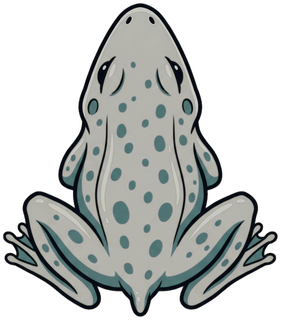
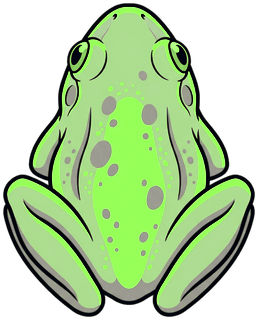
fix: Dragon Tide v0.47.1 — コロッサスの前後を修正・盾兵を小さく・蛙竜の色と脚
実機判定（2026-08-24）の3点。

コロッサス:
- 生成された絵の前後が逆だった（冠に見えた台形が実は台座で、顔が下を向いていた）。
  画像そのものを180度回して、ピボットを回転後の実測値に更新した。

鏡の盾兵:
- コード側が描く「弾く扇」と絵が重なって盾が読めなかったので、エフェクトはそのままに
  絵を一回り小さくした（drawScale 3.45 → 2.4）。

蛙竜:
- 尻尾と同じ明るさの緑にした。生成し直しても色が寄らなかったため、
  tools/sprite_recolor.py を追加して**主線を残したまま中間色だけパレットの色相へ寄せる**
  方式にした（尻尾の rgb(140,224,90) と同じ色相97.6度へ）。
- 翼を小さくした（wingDrawW 25 → 15）。蛙なので翼は控えめ。
- **跳ぶときに脚が動く**ようにした。後脚を伸ばした胴体をもう1枚生成し、
  滞空中（boidHopAir > 0.15）だけそちらへ差し替える。スプライトのキャッシュキーに
  variant を足しただけなので、跳躍ポーズを持たない他の12種は従来どおり1列しか焼かれない。

検証: 2ポーズが別物として焼かれている（不透明画素 435 vs 302）、bodyAir のロード成功、
実プレイ300フレームで滞空38%（設計値42%）＝跳ぶたびに差し替わっている、例外・コンソールエラーなし。

diff --git a/prototypes/dragon-tide/index.html b/prototypes/dragon-tide/index.html
@@ -579,7 +579,7 @@
 // -----------------------------------------------------------------
 // バージョン定数（ここだけ更新すれば画面に反映される）
 // -----------------------------------------------------------------
-const GAME_VERSION = "v0.47.0";
+const GAME_VERSION = "v0.47.1";
 document.getElementById("hud-version").textContent = GAME_VERSION;
 
 // -----------------------------------------------------------------
@@ -12084,6 +12084,10 @@ function drawBoids() {
   //   getSpeciesSprites(boidSpecies[i]) を引く形にすればよい（キャッシュは複数種対応済み）。
   const element       = sp().element ?? "fire";
   const sprites       = getSpeciesSprites(flockSpecies);
+  // v0.47.1: 跳躍ポーズの列（持っている竜種＝蛙竜だけ）。滞空中の個体はこちらを使う。
+  const partsKeyNow   = dragonPartsKey(element);
+  const hasAirPose    = !!(partsKeyNow && DRAGON_PART_SPRITES[partsKeyNow].bodyAir);
+  const spritesAir    = hasAirPose ? getSpeciesSprites(flockSpecies, "air") : null;
   const palette       = DRAGON_ELEMENT_COLORS[element] ?? DRAGON_ELEMENT_COLORS.fire;
 
   // スプライトがまだ生成されていない場合はフォールバック描画しない（ちらつき防止）
@@ -12137,7 +12141,8 @@ function drawBoids() {
     // sin を 0〜1 に正規化してフレームインデックスへ
     const tNorm     = (Math.sin(phase) * 0.5 + 0.5);
     const frameIdx  = Math.floor(tNorm * DRAGON_FLAP_FRAMES) % DRAGON_FLAP_FRAMES;
-    const sprite    = sprites[frameIdx];
+    // 滞空している蛙竜は「後脚を伸ばした」ポーズへ差し替える＝跳ぶたびに脚が動いて見える
+    const sprite    = (spritesAir && boidHopAir[i] > 0.15) ? spritesAir[frameIdx] : sprites[frameIdx];
 
     // ---- 尻尾（動的描画）----
     // 進行方向後方に TAIL_SEGS セグメントをカーブさせる。
@@ -12850,7 +12855,9 @@ const ENEMY_SPRITE_META = {
   balloon:        { px: 0.499, py: 0.459, forward: "none", drawScale: 2.97, hover: true },
   behemoth_arm:   { px: 0.524, py: 0.482, forward: "up", drawScale: 1.41, hover: true },
   behemoth_core:  { px: 0.498, py: 0.525, forward: "up", drawScale: 3.42 },
-  colossus:       { px: 0.497, py: 0.493, forward: "up", drawScale: 2.8, hover: true },
+  // v0.47.1: 生成された絵の前後が逆だった（冠に見えた台形が実は台座で、顔が下を向いていた）ので
+  // 画像そのものを180度回してある。ここは回転後の実測値。
+  colossus:       { px: 0.500, py: 0.504, forward: "up", drawScale: 2.8, hover: true },
   flamewagon:     { px: 0.497, py: 0.593, forward: "up", drawScale: 2.04 },
   healer:         { px: 0.498, py: 0.499, forward: "none", drawScale: 3.58 },
   ironclad:       { px: 0.497, py: 0.540, forward: "up", drawScale: 1.34 },
@@ -12859,7 +12866,9 @@ const ENEMY_SPRITE_META = {
   mammoth:        { px: 0.498, py: 0.579, forward: "up", drawScale: 2.08 },
   miasma:         { px: 0.498, py: 0.548, forward: "none", drawScale: 3.15 },
   raider:         { px: 0.606, py: 0.487, forward: "up", drawScale: 1.53 },
-  shieldman:      { px: 0.488, py: 0.501, forward: "up", drawScale: 3.45 },
+  // v0.47.1: コード側が描く「弾く扇」（drawMovers）と絵が重なって盾が読めなかったので、
+  // エフェクトはそのままに**絵を一回り小さく**した（3.45 → 2.4）。
+  shieldman:      { px: 0.488, py: 0.501, forward: "up", drawScale: 2.4 },
   shockman:       { px: 0.498, py: 0.516, forward: "up", drawScale: 3.26 },
   splitter:       { px: 0.494, py: 0.520, forward: "none", drawScale: 3.49, hover: true },
   summoner:       { px: 0.497, py: 0.518, forward: "none", drawScale: 3.34, hover: true },
@@ -13030,12 +13039,16 @@ const DRAGON_PART_SPRITES = {
   },
   frog: {
     body: "assets/dragon_frog_body.png",
+    // v0.47.1: 跳んでいる間だけ差し替える「後脚を伸ばした」胴体。
+    // 実機判定「ジャンプする時に脚が動いてほしい」への対応。2ポーズの差し替えで脚が動いて見える。
+    bodyAir: "assets/dragon_frog_body_air.png",
+    bodyAirPivot: { cx: 159.3, cy: 149.4, w: 320, h: 315 },
     wing: "assets/dragon_frog_wing.png",
     bodyPivot:  { cx: 139.9, cy: 185.3, w: 281, h: 320 },
     shoulder:   { left: { x: 71.0, y: 182 }, right: { x: 208.0, y: 182 } },
     wingAnchor: { x: 317, y: 66.1 },
     bodyDrawH: 27,
-    wingDrawW: 25,
+    wingDrawW: 15,   // v0.47.1: 蛙なので翼は小さく（実機判定「翼はもっと小さく」）
   },
   // UFO だけは**円盤1枚**（sprites.md のカテゴリD）。翼を持たないので wing を書かない。
   // drawPartSeparatedDragon は wing が無ければ胴体だけを描く。
@@ -13094,7 +13107,7 @@ function preloadDragonImages() {
     ...Object.keys(DRAGON_PART_SPRITES).flatMap((el) => {
       dragonPartImages[el] = dragonPartImages[el] || {};
       // v0.46: 翼を持たない竜種（UFO）は wing を宣言していないので body だけ読む
-      return ["body", "wing"]
+      return ["body", "wing", "bodyAir"]
         .filter((part) => DRAGON_PART_SPRITES[el][part])
         .map((part) =>
           loadOne(DRAGON_PART_SPRITES[el][part], (img) => { dragonPartImages[el][part] = img; }));
@@ -13175,13 +13188,15 @@ function easeAngle(cur, target, k) {
  * @param {number} flapFactor  翼スパン軸の縮小係数（常に正、0.13〜1.0）
  * @param {CanvasRenderingContext2D} c
  */
-function drawPartSeparatedDragon(partsKey, flapFactor, c) {
+function drawPartSeparatedDragon(partsKey, flapFactor, c, variant) {
   const spec    = DRAGON_PART_SPRITES[partsKey];
   const imgs    = dragonPartImages[partsKey];
-  const bodyImg = imgs.body;
+  // v0.47.1: 跳躍ポーズ（後脚を伸ばした胴体）。持っていない竜種は通常の胴体のまま。
+  const useAir  = variant === "air" && !!(spec.bodyAir && imgs.bodyAir);
+  const bodyImg = useAir ? imgs.bodyAir : imgs.body;
   const wingImg = imgs.wing;
 
-  const bodyPivot = spec.bodyPivot;
+  const bodyPivot = useAir ? spec.bodyAirPivot : spec.bodyPivot;
   const bodyDrawH = spec.bodyDrawH;
   const bodyDrawW = bodyDrawH * (bodyImg.naturalWidth / bodyImg.naturalHeight);
   // 胴体の論理スケール（元画像px → 描画px）。肩オフセットの換算にも使う。
@@ -13244,7 +13259,7 @@ function drawPartSeparatedDragon(partsKey, flapFactor, c) {
  * @param {number} spritePx  canvas物理解像度（= 論理サイズ × DPR）
  * @returns {HTMLCanvasElement}
  */
-function renderDragonFrame(element, wingAngle, spritePx) {
+function renderDragonFrame(element, wingAngle, spritePx, variant) {
 
   // v0.35.2: 描画方式は**属性ごとに**決める（従来はグローバルな dragonImagesLoaded で
   // 全属性まとめて判定していたため、1枚欠けると全竜種がベクターに落ちていた）。
@@ -13281,7 +13296,7 @@ function renderDragonFrame(element, wingAngle, spritePx) {
 
   if (usesParts) {
     // 分離方式: 胴体固定 + 翼のみ羽ばたき（胴体まで伸縮する「蝶々開閉」を防ぐため）
-    drawPartSeparatedDragon(partsKey, flapFactor, c);
+    drawPartSeparatedDragon(partsKey, flapFactor, c, variant);
   } else {
     // 一体画像方式（旧）: 全身画像に flapFactor の scale をまとめて適用する。
     // **胴体まで横に伸縮する**ので、分離方式へ移行できた竜種は上の分岐に載せる。
@@ -13530,7 +13545,7 @@ function drawWing(c, bx, _by, wingTipY, palette) {
 }
 
 /** 1属性ぶんの羽ばたき全コマをプリレンダして返す。 */
-function buildElementSprites(element) {
+function buildElementSprites(element, variant) {
   const spriteDpr = Math.min(window.devicePixelRatio || 1, 2);
   const spritePx  = Math.ceil(DRAGON_SPRITE_LOGICAL * spriteDpr);
   const frames    = [];
@@ -13539,7 +13554,7 @@ function buildElementSprites(element) {
     // wingAngle: 0=水平（最大展開）→ π*0.65 = 約37度折りたたみ
     const phase     = (f / DRAGON_FLAP_FRAMES) * Math.PI * 2;
     const wingAngle = (Math.sin(phase) * 0.5 + 0.5) * (Math.PI * 0.65);
-    frames.push(renderDragonFrame(element, wingAngle, spritePx));
+    frames.push(renderDragonFrame(element, wingAngle, spritePx, variant));
   }
   return frames;
 }
@@ -13554,17 +13569,23 @@ function buildElementSprites(element) {
 const spriteCache = new Map();      // speciesId -> フレーム配列
 const SPRITE_CACHE_MAX = 3;         // 同時保持数。1固定にはしない（暫定値・実機で調整）
 
-function getSpeciesSprites(speciesId) {
-  let frames = spriteCache.get(speciesId);
+/**
+ * 竜種のスプライト列を返す。
+ * v0.47.1: variant="air" で「跳躍ポーズ」の列を別に持てる（蛙竜の脚の動き）。
+ * キャッシュキーを分けるだけなので、変種を持たない竜種では従来どおり1列しか作られない。
+ */
+function getSpeciesSprites(speciesId, variant) {
+  const cacheKey = variant ? speciesId + ":" + variant : speciesId;
+  let frames = spriteCache.get(cacheKey);
   if (frames) {
     // 参照されたら最新に回す（Map は挿入順を保つので削除→再挿入でLRUになる）
-    spriteCache.delete(speciesId);
-    spriteCache.set(speciesId, frames);
+    spriteCache.delete(cacheKey);
+    spriteCache.set(cacheKey, frames);
     return frames;
   }
   const def = SPECIES_DEFS[speciesId] || SPECIES_DEFS.fire;
-  frames = buildElementSprites(def.element);
-  spriteCache.set(speciesId, frames);
+  frames = buildElementSprites(def.element, variant);
+  spriteCache.set(cacheKey, frames);
   while (spriteCache.size > SPRITE_CACHE_MAX) {
     spriteCache.delete(spriteCache.keys().next().value);   // 最古から破棄
   }

diff --git a/tools/sprite_recolor.py b/tools/sprite_recolor.py
@@ -1,0 +1,47 @@
+"""スプライトの色みをゲーム内パレットへ寄せる。
+
+生成AIは指定した色から外れることがある（蛙竜は「明るいライム」と書いてもオリーブ色で出た）。
+作り直すより、**主線を残したまま中間色だけ目標の色相へ寄せる**方が速くて確実。
+
+  python tools/sprite_recolor.py <in.png> <out.png> --hue 97.6 --sat 0.60 --val 1.45
+
+  --hue  目標の色相（度）。ゲーム内パレット（DRAGON_ELEMENT_COLORS）の色から取る
+  --sat  彩度の下限（0-1）
+  --val  明度の倍率（主線＝暗い画素は対象外なので黒つぶれしない）
+"""
+import sys, colorsys
+from PIL import Image
+import numpy as np
+
+def recolor(src, dst, hue_deg, sat_min, val_mul, line_v=0.30):
+    im = Image.open(src).convert("RGBA")
+    arr = np.array(im).astype(np.float32)
+    rgb, a = arr[:, :, :3] / 255.0, arr[:, :, 3]
+    out = rgb.copy()
+    h, w, _ = rgb.shape
+    tgt_h = (hue_deg % 360) / 360.0
+    changed = 0
+    for y in range(h):
+        for x in range(w):
+            if a[y, x] < 40:
+                continue
+            r, g, b = rgb[y, x]
+            hh, ss, vv = colorsys.rgb_to_hsv(r, g, b)
+            if vv <= line_v:      # 主線・影は触らない（触ると輪郭が溶ける）
+                continue
+            nr, ng, nb = colorsys.hsv_to_rgb(tgt_h, max(ss, sat_min), min(1.0, vv * val_mul))
+            out[y, x] = (nr, ng, nb)
+            changed += 1
+    arr[:, :, :3] = np.clip(out * 255.0, 0, 255)
+    Image.fromarray(arr.astype(np.uint8)).save(dst, optimize=True)
+    print(f"{dst}: recolored {changed} px (hue={hue_deg} satMin={sat_min} valMul={val_mul})")
+
+if __name__ == "__main__":
+    args = [a for a in sys.argv[1:] if not a.startswith("--")]
+    o = {}
+    for i, a in enumerate(sys.argv):
+        if a == "--hue": o["hue"] = float(sys.argv[i+1])
+        if a == "--sat": o["sat"] = float(sys.argv[i+1])
+        if a == "--val": o["val"] = float(sys.argv[i+1])
+    if len(args) < 2: raise SystemExit(__doc__)
+    recolor(args[0], args[1], o.get("hue", 97.6), o.get("sat", 0.55), o.get("val", 1.4))
